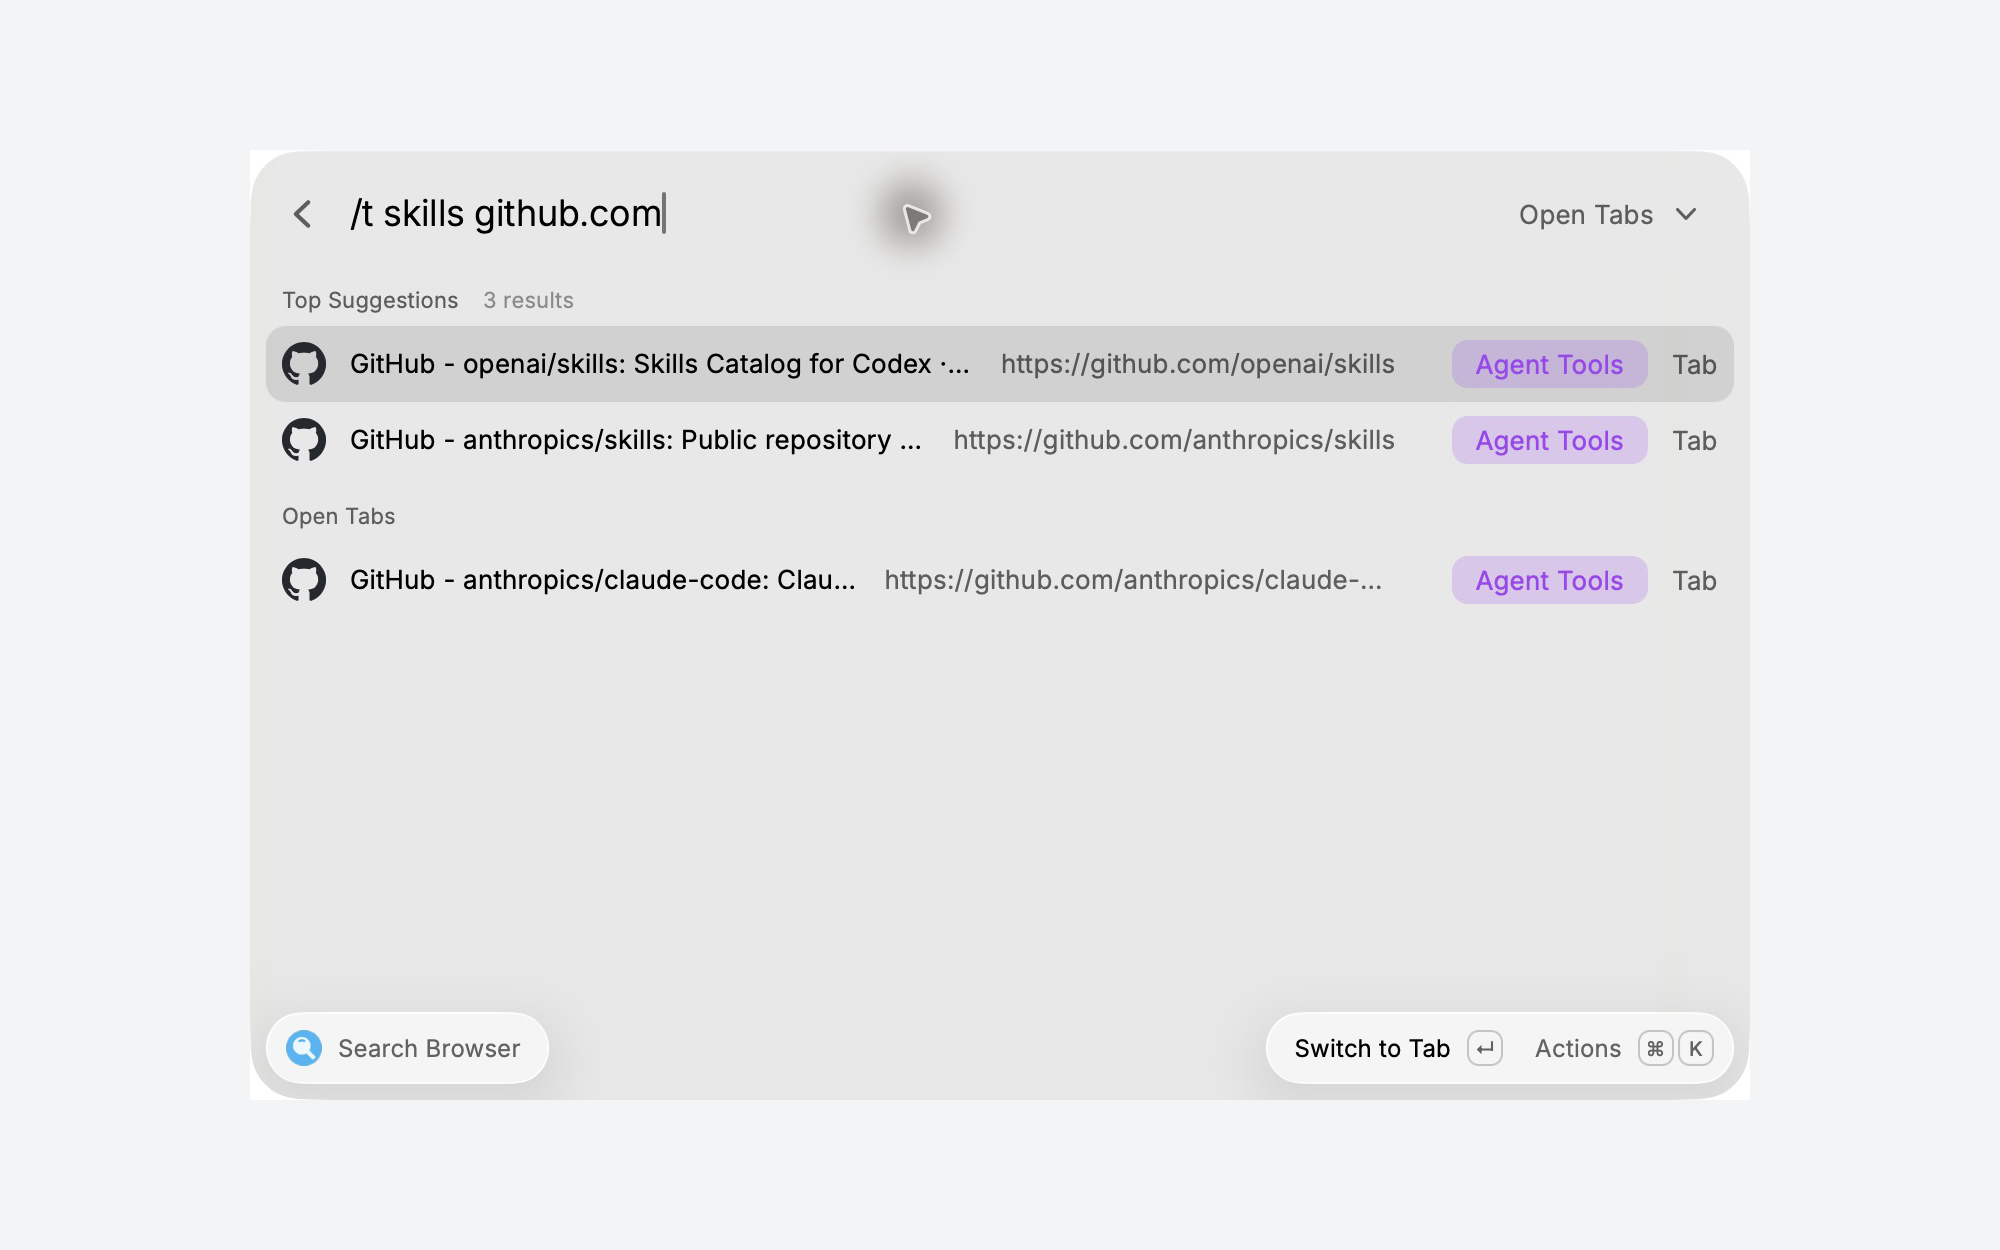
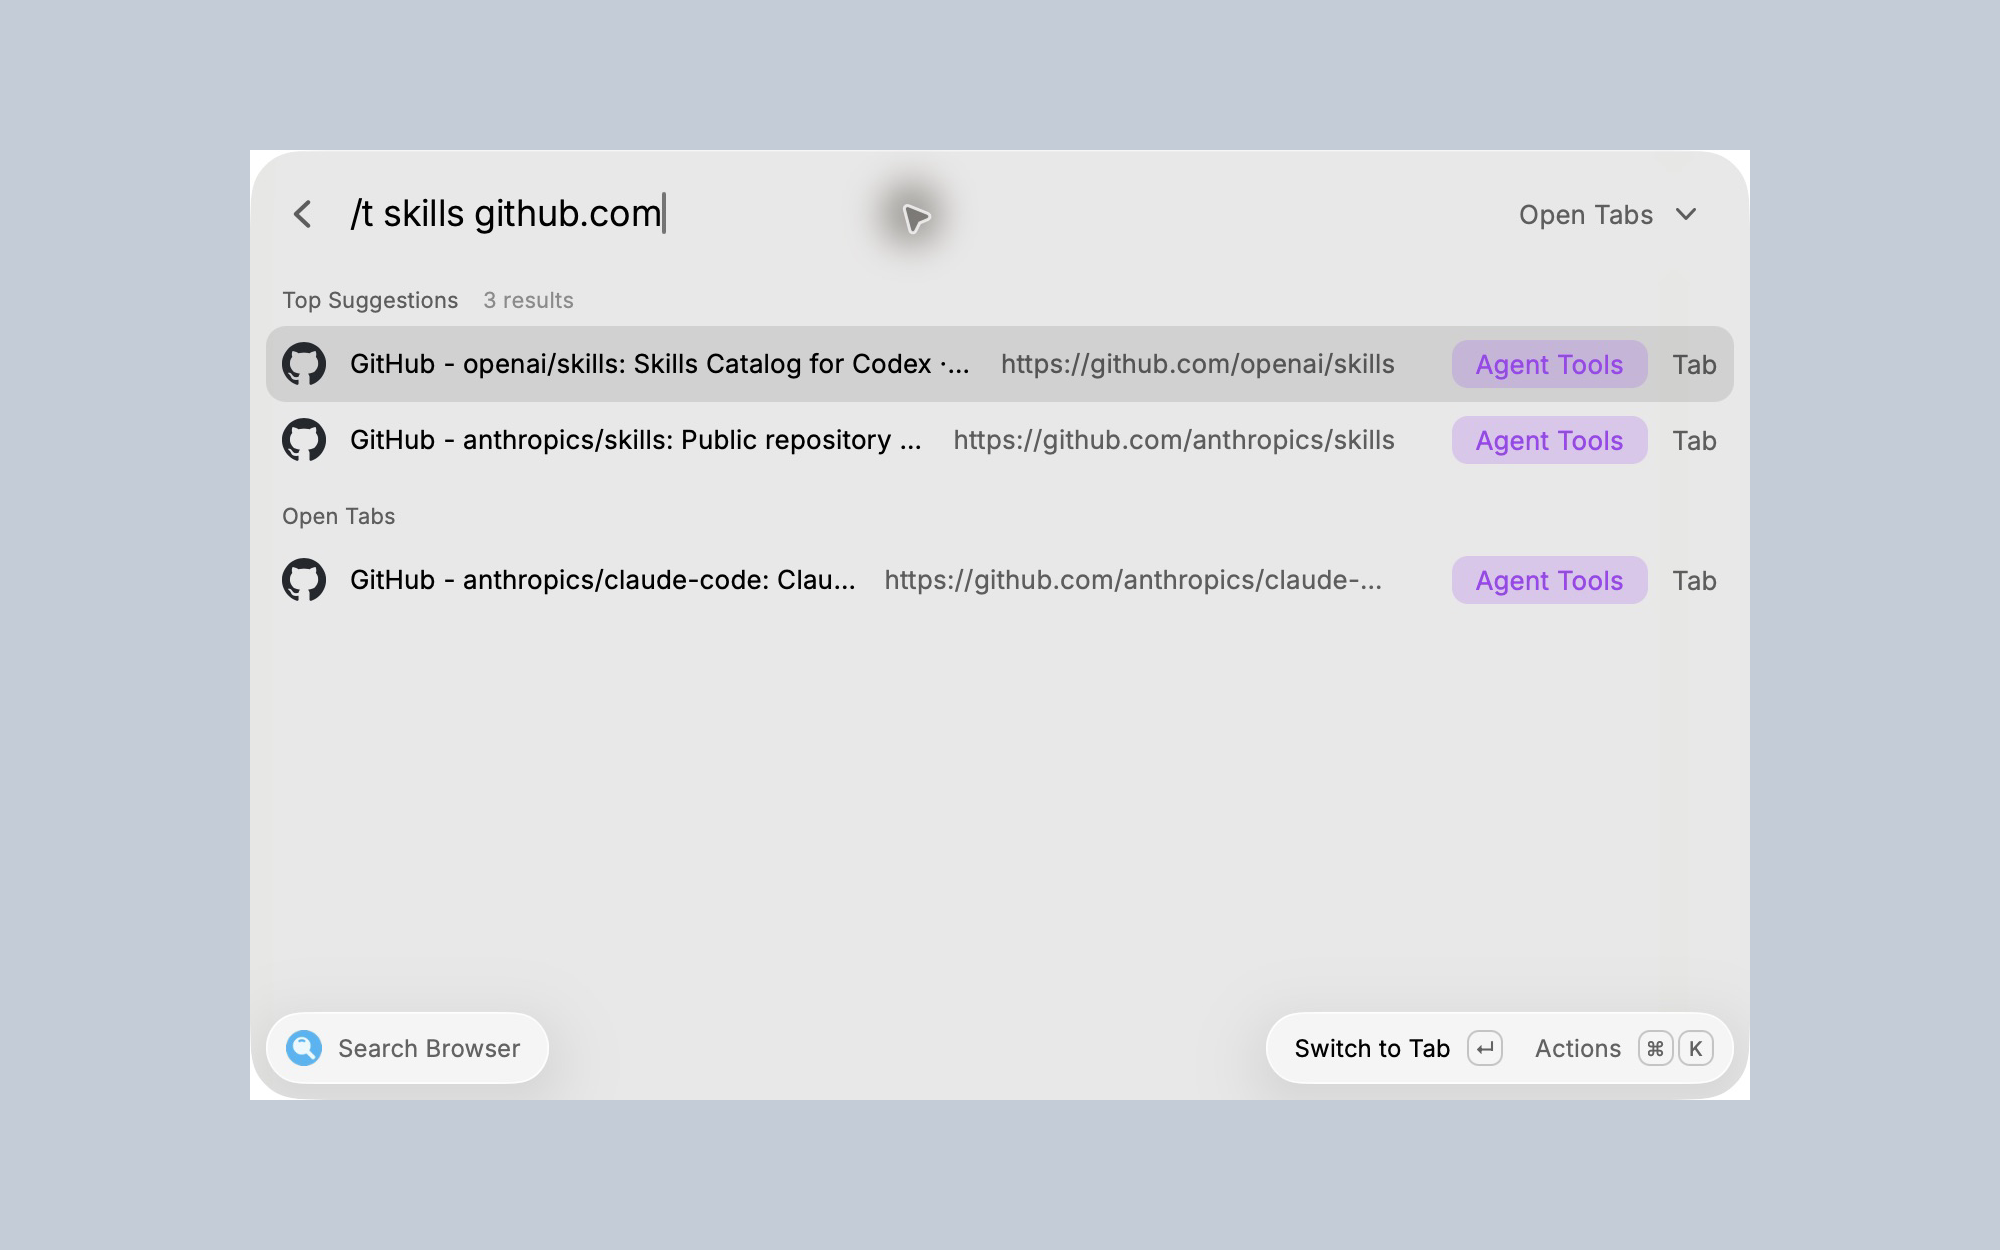
docs(media): 📝 clarify Store screenshot window framing

diff --git a/docs/store-submission.md b/docs/store-submission.md
@@ -16,7 +16,7 @@
 2. `blazwitcher-raycast-2.png`：`/t skills github.com` 的英文项目结果。
 3. `blazwitcher-raycast-3.png`：`⌘D` 预览的命中高亮、Tab 来源标签和真实正文。
 
-本轮基于 master `232b014`，统一使用 `raycast-blaz` Chrome Profile 的公开页面。真实 Raycast 窗口截图居中放在一致的浅灰背景上，输出 2000 × 1250 PNG；不含其他应用或私人数据，不修改界面内容。具体录制方法、案例和检查范围见 [素材清单](media-guide.md)。GIF 和 MP4 位于 README 的 `media/` 中，不能替代商店 PNG。
+本轮基于 master `232b014`，统一使用 `raycast-blaz` Chrome Profile 的公开页面。真实 Raycast 窗口截图居中放在一致的灰蓝背景上，输出 2000 × 1250 PNG；不含其他应用或私人数据，不修改界面内容。具体录制方法、案例和检查范围见 [素材清单](media-guide.md)。GIF 和 MP4 位于 README 的 `media/` 中，不能替代商店 PNG。
 
 ## 检查与提交
 
@@ -29,7 +29,7 @@ npm run check
 
 `npm run check` 包括类型检查、测试、官方 `ray lint`、ESLint、Prettier 和构建。另在真实 Raycast 内确认搜索、来源筛选、打开标签、配置与正文预览；仅有构建通过不足以证明实际功能可用。
 
-此前的 [官方 PR #32402](https://github.com/raycast/extensions/pull/32402) 已关闭且未合并。本轮重新从源项目最新 master 准备素材和提交，不复用旧分支作为发布版本。新的申请以实际官方 PR 为准；创建 PR 不代表已上架。
+此前的 [官方 PR #32402](https://github.com/raycast/extensions/pull/32402) 已关闭且未合并。本轮重新从源项目最新 master 准备素材和提交，不复用旧分支作为发布版本。新申请为 [raycast/extensions #32426](https://github.com/raycast/extensions/pull/32426)，源仓库素材更新见 [PR #21](https://github.com/cjinhuo/blazwitcher-raycast/pull/21)；审核状态以官方 PR 为准，创建 PR 不代表已上架。
 
 确认最终文件和验证记录后，提交所有发布文件，在同步到最终提交的干净 checkout 中执行以下命令。不要从含 `.local`、`.env` 或其他本地诊断文件的开发目录直接发布，因为官方 CLI 复制文件时不完整遵循 `.gitignore`。使用交互终端，不传 `--non-interactive` 或 `--verbose`：
 

diff --git a/docs/media-guide.md b/docs/media-guide.md
@@ -24,7 +24,7 @@
 
 5 段原始视频由桌面录屏采集。成品保留原速，只裁出完整 Raycast 命令窗口并删去静止等待，不改写界面、标题或结果。每段输出 GIF（15 fps）和 MP4（30 fps）。剪辑区间、尺寸、校验值和实际查询见 [录制记录](../media/recording-manifest.json)，可在 [素材预览](../media/recordings.html) 播放。
 
-三张 Store PNG 来自真实 Raycast 窗口截图，保留原始 1500 × 950 界面像素，居中放在统一浅灰背景上，输出 **2000 × 1250 PNG**。本轮未使用 Capture Window 的保存按钮：该按钮未被桌面自动化工具暴露。窗口内容未经修改，背景不含其他应用或私人数据。
+三张 Store PNG 来自真实 Raycast 窗口截图，保留原始 1500 × 950 界面像素，居中放在统一灰蓝背景上，输出 **2000 × 1250 PNG**。本轮未使用 Capture Window 的保存按钮：该按钮未被桌面自动化工具暴露。窗口内容未经修改，背景不含其他应用或私人数据。
 
 | 文件                                 | 内容                             |
 | ------------------------------------ | -------------------------------- |
@@ -33,3 +33,5 @@
 | `metadata/blazwitcher-raycast-3.png` | 新版预览高亮、来源标签和提取正文 |
 
 README 共用 `media/` 素材，商店截图位于 `metadata/`。官方尺寸、数量和内容要求见 [Store 截图规范](https://developers.raycast.com/basics/prepare-an-extension-for-store#screenshots)。Chrome 版 AI 分组操作与侧边栏不属于 Raycast 功能；录屏里的分组是 Chrome 中已有的真实分组。
+
+已用 Raycast 官方 `check_metadata_images.py` 和 `check_raycast_images.py` 校验三张 PNG 的尺寸、窗口留白、背景一致性和外观；均通过。初次提交的浅灰背景与预览窗口顶部对比不足，已调整背景颜色，未改动窗口像素。
